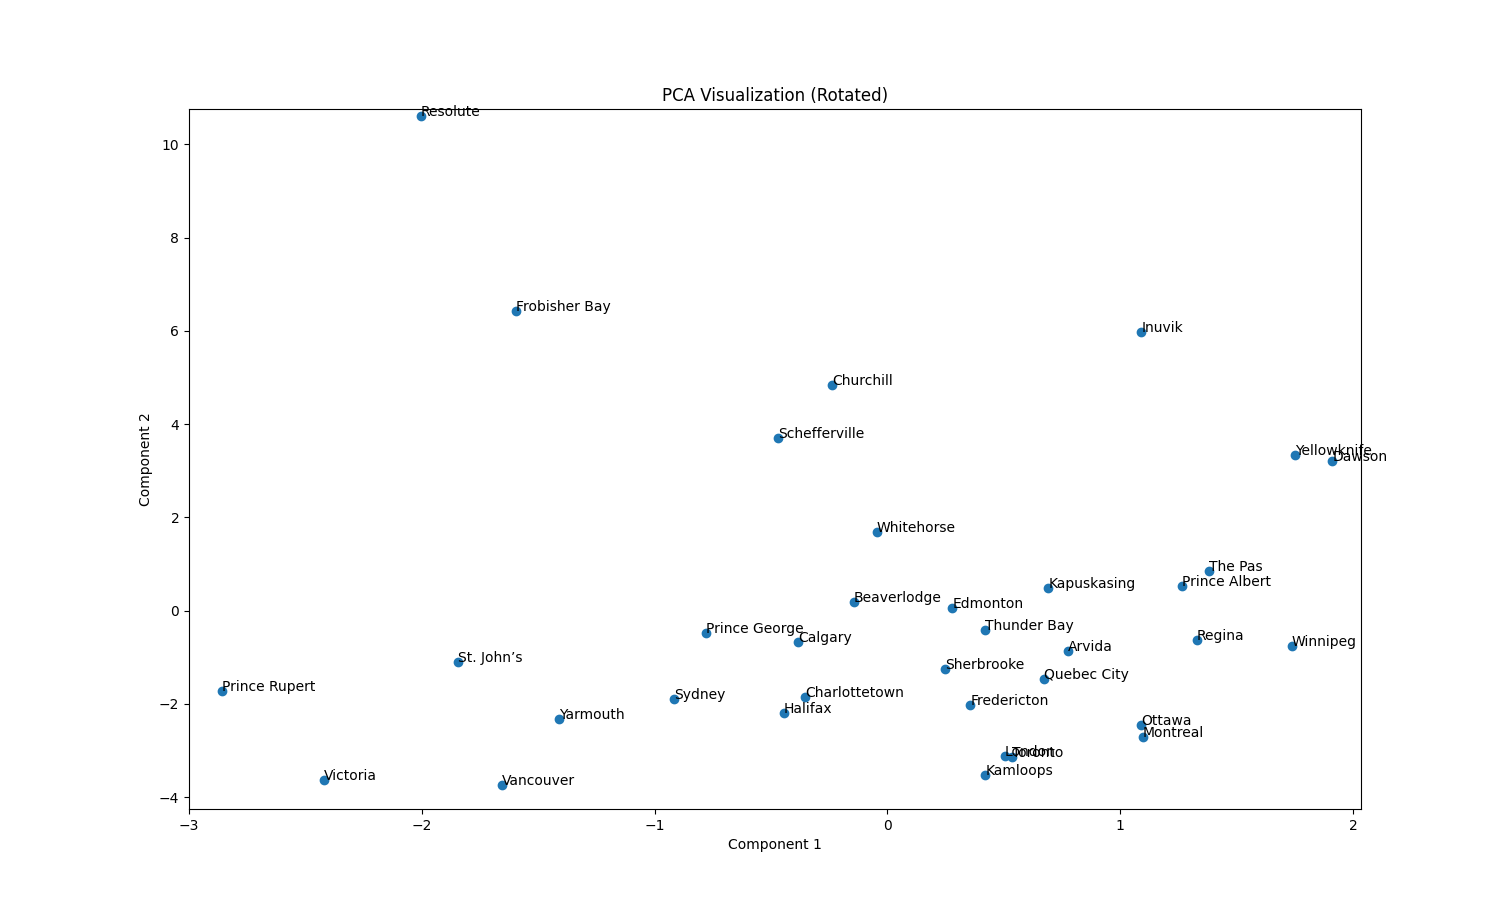
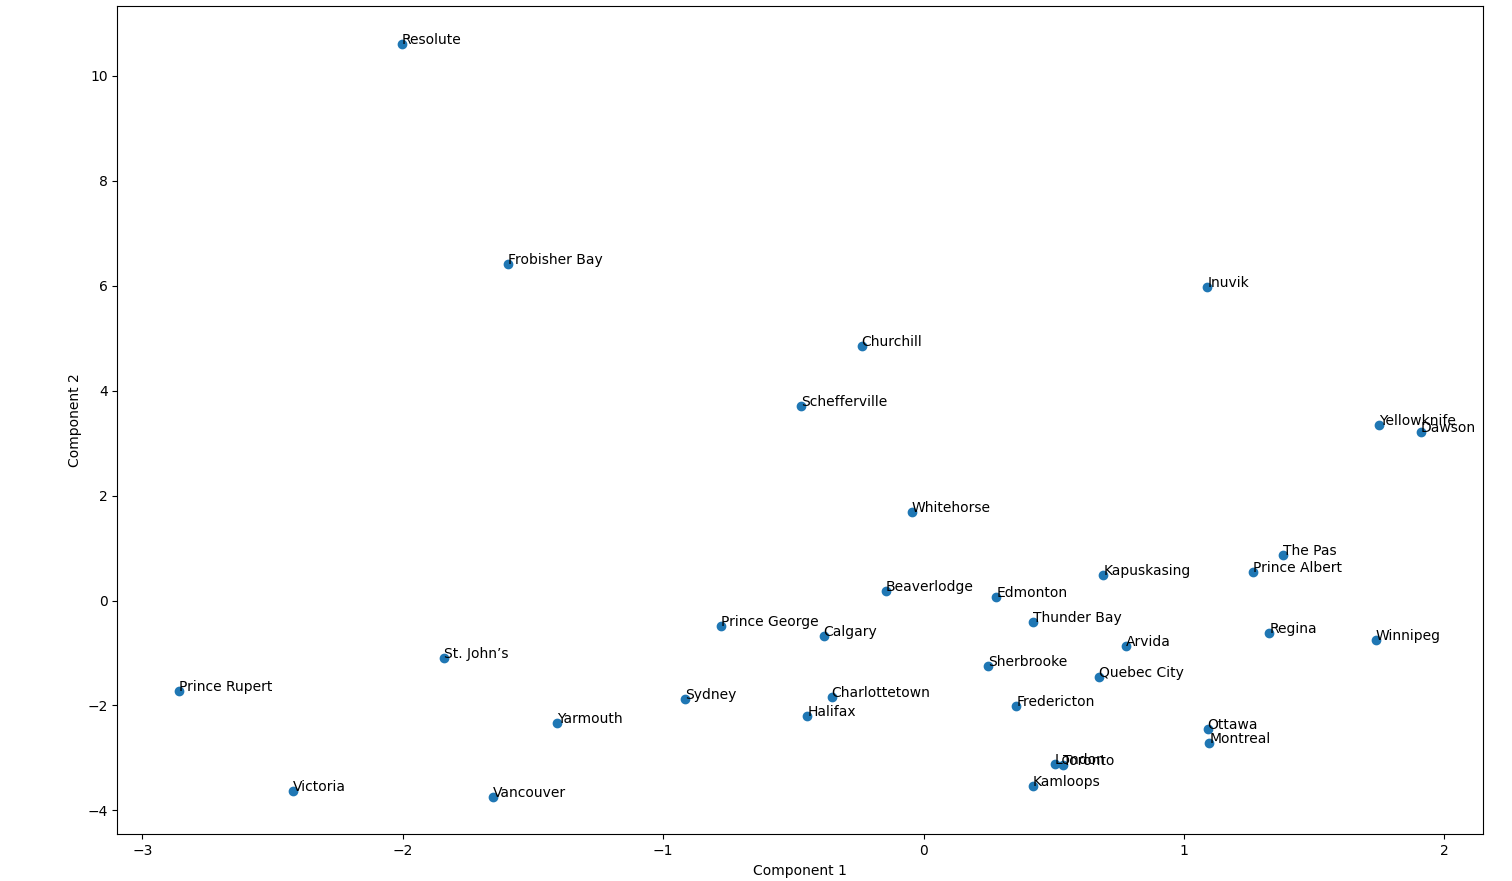
Se ajustaron detalles

diff --git a/ej4.py b/ej4.py
@@ -22,10 +22,10 @@ x  = list(range(12))
 y1 = list(V[1,:])
 y2 = list(V[2,:])
 
-plt.plot(x, y1, label='y1')
-plt.plot(x, y2, label='y2')
-plt.xlabel('x')
-plt.ylabel('y')
+plt.plot(x, y1, label='C1')
+plt.plot(x, y2, label='C2')
+plt.xlabel('meses')
+plt.ylabel('coeficiente')
 plt.legend()
 plt.show()
 
@@ -36,8 +36,8 @@ print(X2d.shape)
 plt.scatter(X2d[:, 0], X2d[:, 1])
 for i, txt in enumerate(station):
     plt.annotate(txt, (X2d[i, 0], X2d[i, 1]))
-plt.xlabel('Component 1')
-plt.ylabel('Component 2')
+plt.xlabel('C1')
+plt.ylabel('C2')
 plt.title('PCA Visualization')
 plt.show()
 
